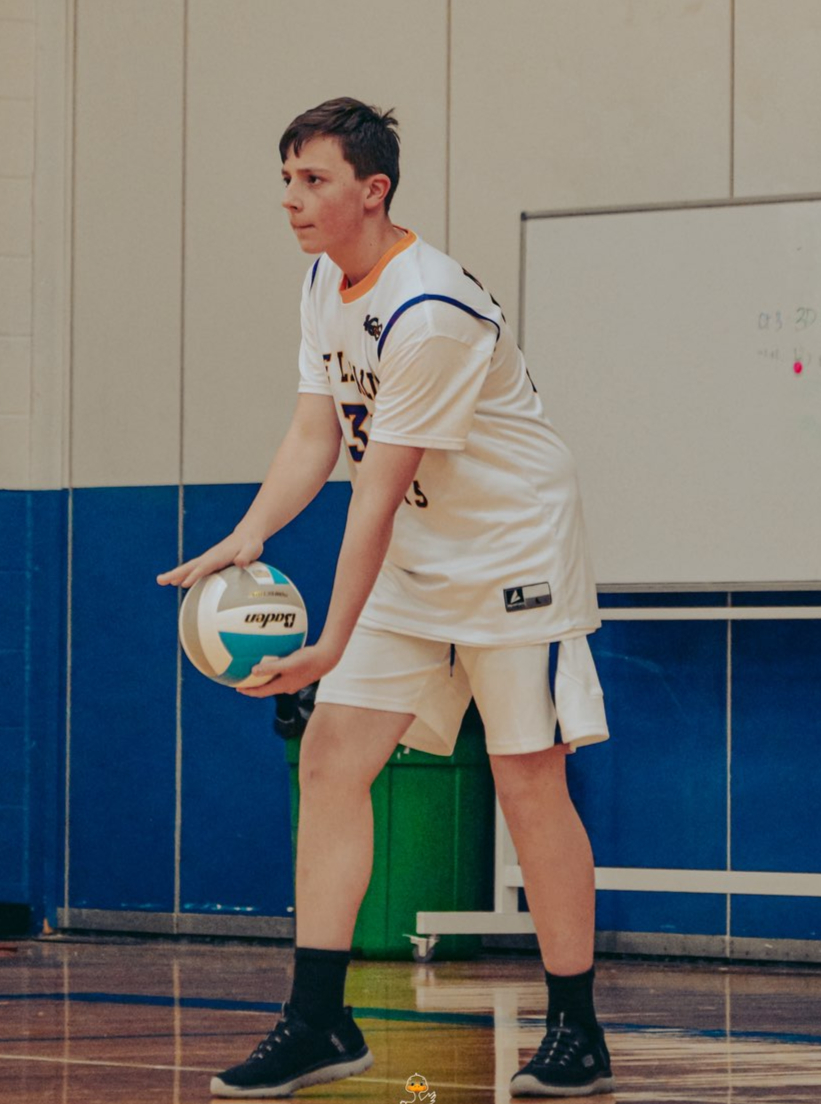
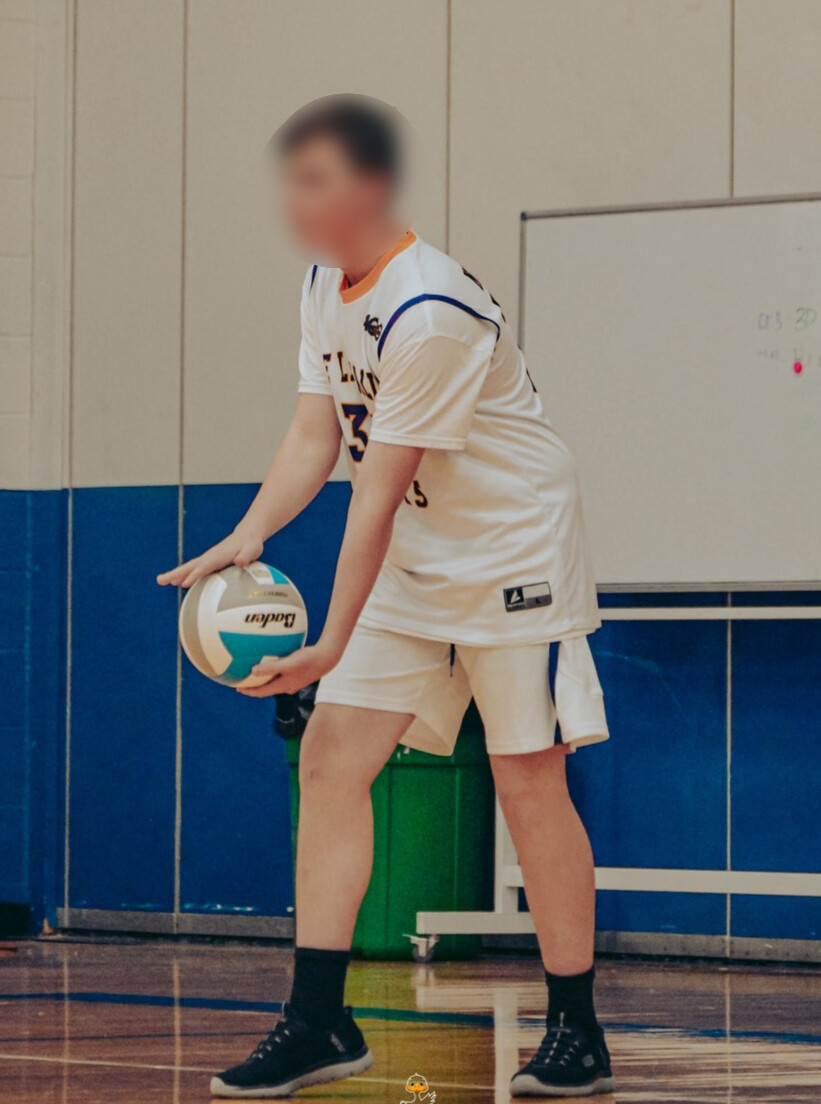
added js file to add on-view anims for non-main page & blurred my face in pics

Changed region(s): [[0.335, 0.0616, 0.5177, 0.2464]]

diff --git a/Robotics.html b/Robotics.html
@@ -44,12 +44,13 @@
             <h3 class="descT">As of writing this, I have 5 years of First robotics experience, I started in 2021. I have spent 4 years on an FTC team, and 2 years on an FRC team. I was the operator all five years I have participated in robotics, and I have been the lead programmer for three of those years.</h3>
             <img src="/pics/robotics2.jpg" class="picT">
             <h3 class="descT">During my four years on FTC, my team was able to make it to states three of the four years, one of which, when I was the Lead programmer, we went undefeated in our states division, during both our qualifier and playoff matches!</h3>
-            <img src="/pics/robotics1.jpg" class="picT">
-            <h3 class="descT">During my first year on FRC, I was the not the lead programmer, but I heavily contributed to the development of my team's code, working alongside my teams lead programmer.</h3>
             <img src="/pics/robotics3.png" class="picT">
+            <h3 class="descT">During my first year on FRC, I was the not the lead programmer, but I heavily contributed to the development of my team's code, working alongside my teams lead programmer.</h3>
+            <img src="/pics/robotics1.jpg" class="picT">
             <h3 class="descT">On my second year on FRC, the previous lead programmer graduated, so I rose to the lead programmer position. Along with the help of my father, I led my team in designing and building a modified kitbot which we ended up taking to our first competition, while more experienced members built a better robot.</h3>
         </div>
         <div class="break"></div>
         <script src="background.js"></script>
+        <script src="Animations.js"></script>
     </body>
 </html>

diff --git a/index.html b/index.html
@@ -39,9 +39,9 @@
 				<h1 class="top-Title">Malachi Nieman</h1>  
 				<div class="aboutMe">
 					<ul class="biolist">
-						<li class ="bioList">
+						<!--<li class ="bioList">
 							<img src="/pics/selfie.jpg" class="Selfie" />
-						</li>
+						</li> -->
 						<li class ="bioList">
 							<h2 class="bio">Hi, I'm Malachi Nieman, a student engineer!</h2>
 						</li>
@@ -61,7 +61,7 @@
 					<li class="project"> <!--copy this to add another project-->
 						<h2 class="projectName">EZOllama</h2>
 						<a href="https://github.com/realgoodguyalways" class="Link">
-							<img src="/pics/EZOllama2.jpg" class="picProjects">
+							<img src="/pics/EZOllama_cropped.jpg" class="picProjects">
 						</a>
 						<h4 class="projectDescription">EZOllama is an HTML file, designed to be usable in any scenario, regardless of internet connectivity. It provides an easy-to-use interface for interacting with llms on android devices via Termux using Ollama.</h4>
 					</li>

diff --git a/css/Projects.css b/css/Projects.css
@@ -441,27 +441,42 @@ desc {
     text-align: center;
     margin-left: 10%; 
     margin-right: 10%;
+    clip-path: inset(0 100% 0 0);
+}
+
+.descT.animate {
+    animation: reveal 0.3s ease forwards 0.25s;
+}
+
+@keyframes reveal {
+    from {
+        clip-path: inset(0 100% 0 0)
+    }
+    to {
+        clip-path: inset(0 0 0 0)
+    }
 }
 
 .picT {
     align-items: center;
     width: 40%;
-    margin-left: -100%;
     margin-right: 30%;
     height: auto;
     border-radius: 25px;
-    
-    animation: leftSlide 0.5s ease;
-    animation-delay: 0.75s;
-    animation-fill-mode: forwards; 
+
+    transform: translateX(-100%);
+}
+
+.picT.animate {
+    animation: leftSlide 0.3s ease forwards;
 }
 
 @keyframes leftSlide {
     from {
-        margin-left: -100%;
+        transform: translateX(-150%);
     }
     to {
-        margin-left: 30%;
+        transform: translateX(70%);
     }
 }
 

diff --git a/Esports.html b/Esports.html
@@ -38,9 +38,11 @@
         <br>
         <h1 class="titleT">Esports</h1>
         <div class="desc">
+                <img src="/pics/e-sports.png" class="picT">
                 <h3 class="descT">As of writing this, I have two years of experience on my high school's E-sports team. Both years I played in hero shooters, playing Marvel Rivals for three semesters, and overwatch for the final one. I generally play as a support, specializing in brigitte on Overwatch, and Luna Snow on Marvel Rivals.</h3>
         </div>
         <div class="break"></div>
         <script src="background.js"></script>
+        <script src="Animations.js"></script>
     </body>
 </html>

diff --git a/css/main.css b/css/main.css
@@ -300,10 +300,6 @@
     }
 
     .aboutMe {
-    display: flex;
-    margin-left: 20%;
-    flex-direction: row;
-    align-items: center;
     }
 
     #bg {
@@ -365,6 +361,7 @@
     }
 
     .bioList {
+        margin-right: 10%;
     }
 
     .biolist {
@@ -374,6 +371,7 @@
     flex-wrap: wrap;
     list-style-type: none;
     grid-template-columns: repeat(auto-fit, minmax(300px, 1fr));
+    text-align: center;
     gap: 45px;
     }
 

diff --git a/Animations.js b/Animations.js
@@ -1,0 +1,11 @@
+console.log("script loaded");
+const observer = new IntersectionObserver((entries) => {
+    entries.forEach(entry => {
+        if (entry.isIntersecting) {
+            entry.target.classList.add("animate");
+            observer.unobserve(entry.target);
+        }
+    });
+});
+
+document.querySelectorAll(".picT, .descT").forEach(el => observer.observe(el));

diff --git a/EZOllama.html b/EZOllama.html
@@ -48,5 +48,6 @@
         <div class="break"></div>
         <h2 class="titleT2">More Details Coming Soon</h2>
         <script src="background.js"></script>
+        <script src="Animations.js"></script>
     </body>
 </html>

diff --git a/Theremin.html b/Theremin.html
@@ -54,5 +54,6 @@
         <div class="break"></div>
         <h2 class="titleT2">More Details Coming Soon</h2>
         <script src="background.js"></script>
+        <script src="Animations.js"></script>
     </body>
 </html>

diff --git a/Volleyball.html b/Volleyball.html
@@ -43,5 +43,6 @@
         </div>
         <div class="break"></div>
         <script src="background.js"></script>
+        <script src="Animations.js"></script>
     </body>
 </html>
